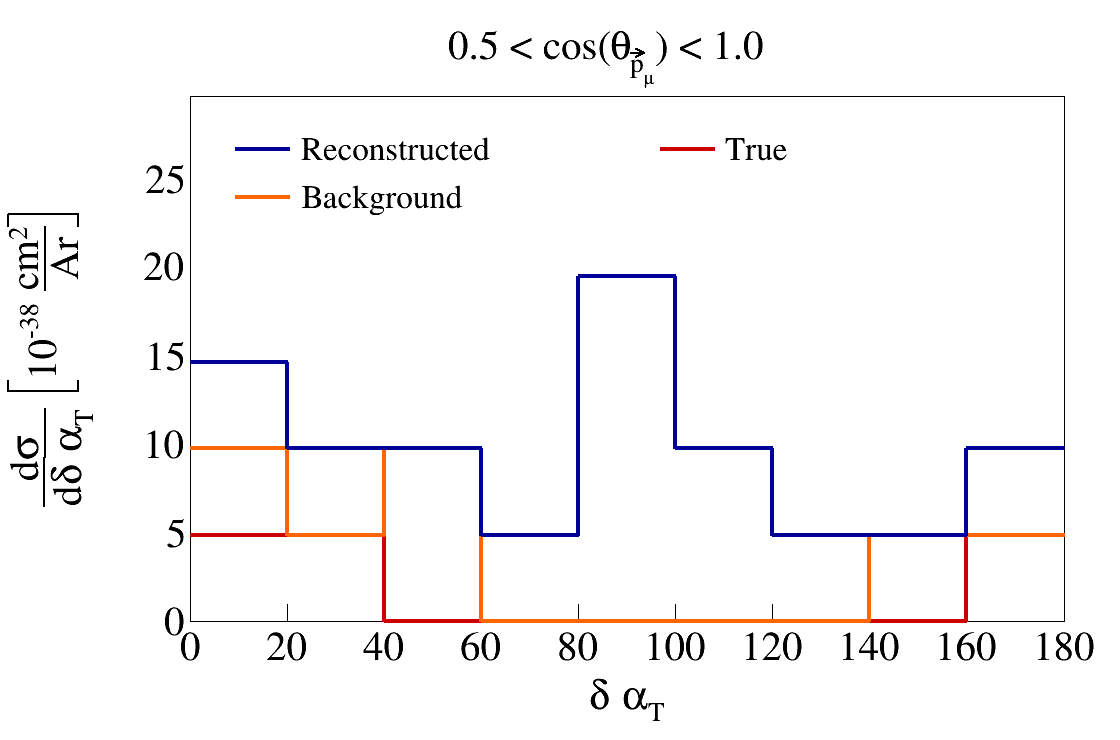
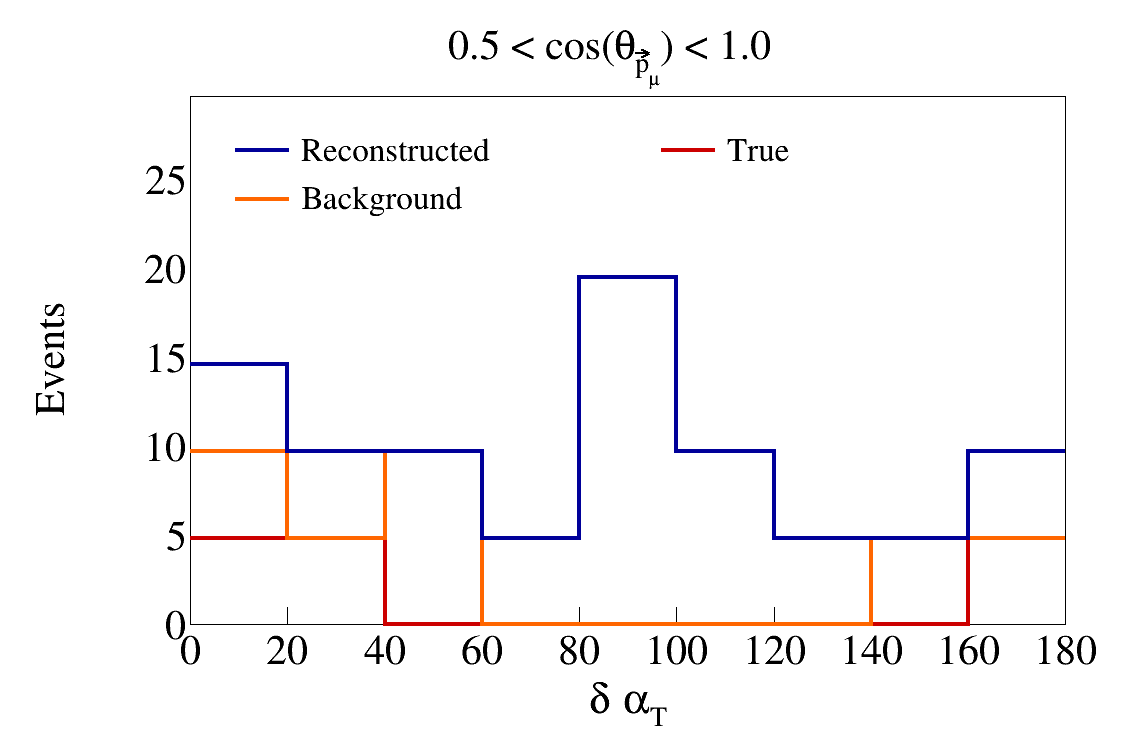
Improve plot style

diff --git a/CAFAnaAnalysis/Scripts/Selection.C b/CAFAnaAnalysis/Scripts/Selection.C
@@ -24,6 +24,13 @@ using namespace ana;
 using namespace Constants;
 
 void Selection() {
+    // Set defaults and load tools
+    TH1D::SetDefaultSumw2();
+    TH2D::SetDefaultSumw2();
+
+    int FontStyle = 132;
+    double TextSize = 0.06;	
+
     // Some useful variables for later.
     const std::string TargetFile = "/exp/sbnd/data/users/munjung/SBND/2023B/cnnid/cnnid.flat.caf.root";
     const double TargetPOT(6.6e20);
@@ -197,23 +204,50 @@ void Selection() {
         PlotCanvas->SetRightMargin(0.05);
         PlotCanvas->SetBottomMargin(0.16);
 
-        TLegend* leg = new TLegend(0.13,0.88,0.50,0.99);
+        TLegend* leg = new TLegend(0.2,0.73,0.75,0.83);
         leg->SetBorderSize(0);
-        leg->SetNColumns(2);
-        leg->SetMargin(0.2);
-        leg->SetFillColor(0);
+        leg->SetNColumns(3);
+        leg->SetTextSize(TextSize*0.8);
+        leg->SetTextFont(FontStyle);
 
         TLegendEntry* legReco = leg->AddEntry(RecoHisto,"all reco","l");
-        legReco->SetTextColor(602); // blue
-        RecoHisto->SetLineColor(602);
+        legReco->SetTextColor(kBlue+2);
+        RecoHisto->SetLineColor(kBlue+2);
+        RecoHisto->SetLineWidth(4);
+
+        // Style histograms
+        RecoHisto->GetXaxis()->SetTitleFont(FontStyle);
+        RecoHisto->GetXaxis()->SetLabelFont(FontStyle);
+        RecoHisto->GetXaxis()->SetNdivisions(8);
+        RecoHisto->GetXaxis()->SetLabelSize(TextSize);
+        RecoHisto->GetXaxis()->SetTitleSize(TextSize);
+        RecoHisto->GetXaxis()->SetTitleOffset(1.1);
+        RecoHisto->GetXaxis()->CenterTitle();
+
+        RecoHisto->GetYaxis()->SetTitleFont(FontStyle);
+        RecoHisto->GetYaxis()->SetLabelFont(FontStyle);
+        RecoHisto->GetYaxis()->SetNdivisions(6);
+        RecoHisto->GetYaxis()->SetLabelSize(TextSize);
+        RecoHisto->GetYaxis()->SetTitleSize(TextSize);
+        RecoHisto->GetYaxis()->SetTitleOffset(1.3);
+        RecoHisto->GetYaxis()->SetTickSize(0);
+        RecoHisto->GetYaxis()->CenterTitle();
+
+        double imax = RecoHisto->GetMaximum();
+        double YAxisRange = 1.3*imax;
+        RecoHisto->GetYaxis()->SetRangeUser(0.,YAxisRange);
+        RecoTrueHisto->GetYaxis()->SetRangeUser(0.,YAxisRange);
+        RecoBkgHisto->GetYaxis()->SetRangeUser(0.,YAxisRange);
 
         TLegendEntry* legRecoTrue = leg->AddEntry(RecoTrueHisto,"signal","l");
-        legRecoTrue->SetTextColor(797); // orange
-        RecoTrueHisto->SetLineColor(797);  
+        legRecoTrue->SetTextColor(kRed+1);
+        RecoTrueHisto->SetLineColor(kRed+1); 
+        RecoTrueHisto->SetLineWidth(4);
 
         TLegendEntry* legRecoBkg = leg->AddEntry(RecoBkgHisto,"bkg","l");
-        legRecoBkg->SetTextColor(417); // green
-        RecoBkgHisto->SetLineColor(417);
+        legRecoBkg->SetTextColor(kOrange+7);
+        RecoBkgHisto->SetLineColor(kOrange+7);
+        RecoBkgHisto->SetLineWidth(4);
 
         PlotCanvas->cd();
         RecoHisto->Draw("hist same");

diff --git a/CAFAnaAnalysis/Scripts/SerialPlotGenerator.cpp b/CAFAnaAnalysis/Scripts/SerialPlotGenerator.cpp
@@ -132,7 +132,7 @@ void SerialPlotGenerator() {
                 Histos[iSlice][iSample]->GetYaxis()->SetLabelFont(FontStyle);
                 Histos[iSlice][iSample]->GetYaxis()->SetNdivisions(6);
                 Histos[iSlice][iSample]->GetYaxis()->SetLabelSize(TextSize);
-                Histos[iSlice][iSample]->GetYaxis()->SetTitle(YAxisLabel.at(iPlot));
+                Histos[iSlice][iSample]->GetYaxis()->SetTitle("Events");
                 Histos[iSlice][iSample]->GetYaxis()->SetTitleSize(TextSize);
                 Histos[iSlice][iSample]->GetYaxis()->SetTitleOffset(1.3);
                 Histos[iSlice][iSample]->GetYaxis()->SetTickSize(0);
